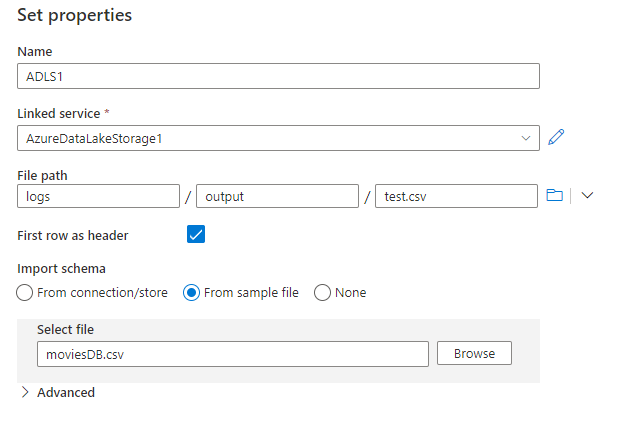
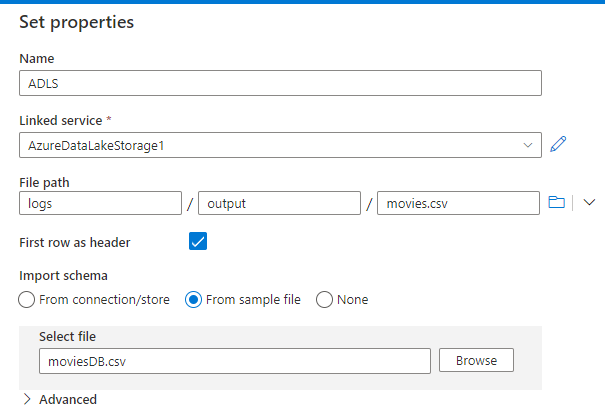
adf

diff --git a/lab-41-copyactivity.md b/lab-41-copyactivity.md
@@ -111,7 +111,9 @@
 
 4. In Set Properties blade, give your dataset this name: **ADLS** and click on the **Linked Service** dropdown. Select **New**.
 
-5. In the New linked service (Azure Data Lake Storage Gen2) blade, select your authentication method as **Account key**, select your **Azure Subscription** and select your Storage account. You will see a screen as follows:
+5. In the New linked service (Azure Data Lake Storage Gen2) blade, select your authentication method as **Account key**
+
+6. Select your **Azure Subscription** and select your Storage account that start with **adlsxxxxx**, where xxxxx is your random number. You will see a screen as follows:
 
    ![Create a Sink in Azure Data Factory in the Azure Portal](images/M07-E02-T03-img01.png)
 
@@ -135,7 +137,7 @@
 
 At this point, you have fully configured your copy activity. Let's test it out.
 
-1. Click the **Publish all** button in the top section of the data factory to save your changes. Review the summary and click **publish**.
+1. Click the **Publish all** button in the top section of the data factory to save your changes. Review the summary and click **Publish**.
 
 1. Click on the **Debug** button at the top of the pipeline canvas. This will start a pipeline debug run.
 
@@ -147,7 +149,7 @@ At this point, you have fully configured your copy activity. Let's test it out.
 
 1. Close the Details window by clikcking the cross in the upper right corner.
 
-1. Return to the Azure Portal.
+1. Return to the Azure Portal tab in the web browser.
 
 1. In the left pane, select **Resource Groups**.
 
@@ -155,5 +157,4 @@ At this point, you have fully configured your copy activity. Let's test it out.
 
 1. In the ADF resource group, select your **adlsxxxxx** Azure Storage Account to open it.
 
-1. Click containers, click the **logs** container and check to see your file was written as expected.
-
+1. Click containers. Click the **logs** container, click the output folder and check to see your file was written as expected.

diff --git a/lab-42-mappingdataflow.md b/lab-42-mappingdataflow.md
@@ -1,6 +1,6 @@
 # Lab: Transforming Data with Mapping Data Flow
 
-You are ready to build a Mapping Data Flow which will transform your data at scale via a spark cluster and then load it into a Data Warehouse. 
+You are ready to build a Mapping Data Flow which will transform your data at scale via a spark cluster and then load it into a SQL database. 
 
 ## Task 1: open the Azure Data Factory
 
@@ -33,7 +33,7 @@ You might have closed the Azure Data Factory studio. If so, please follow this p
 
 1. Turn the **Data Flow Debug** slider located at the top of the authoring module on, and click **OK** in the **Turn on data flow debug** screen that appears.  
 
-    > NOTE: Data Flow clusters might take 5 minutes to warm up.
+    > NOTE: Data Flow clusters might take 5-10 minutes to warm up.
 
 
 1. Select the data flow activity in the pipeline workspace. In the lower pane, select the settings tab, click **+ New** for **Data flow**.
@@ -140,7 +140,7 @@ You might have closed the Azure Data Factory studio. If so, please follow this p
 
 
 
-### Task 4: Writing to a Blob Storage Data Sink
+### Task 4: Writing to a SQL Database Sink
 
 1. **Write to a sink**: Now that you have finished all your transformation logic, you are ready to write to a Sink.
 
